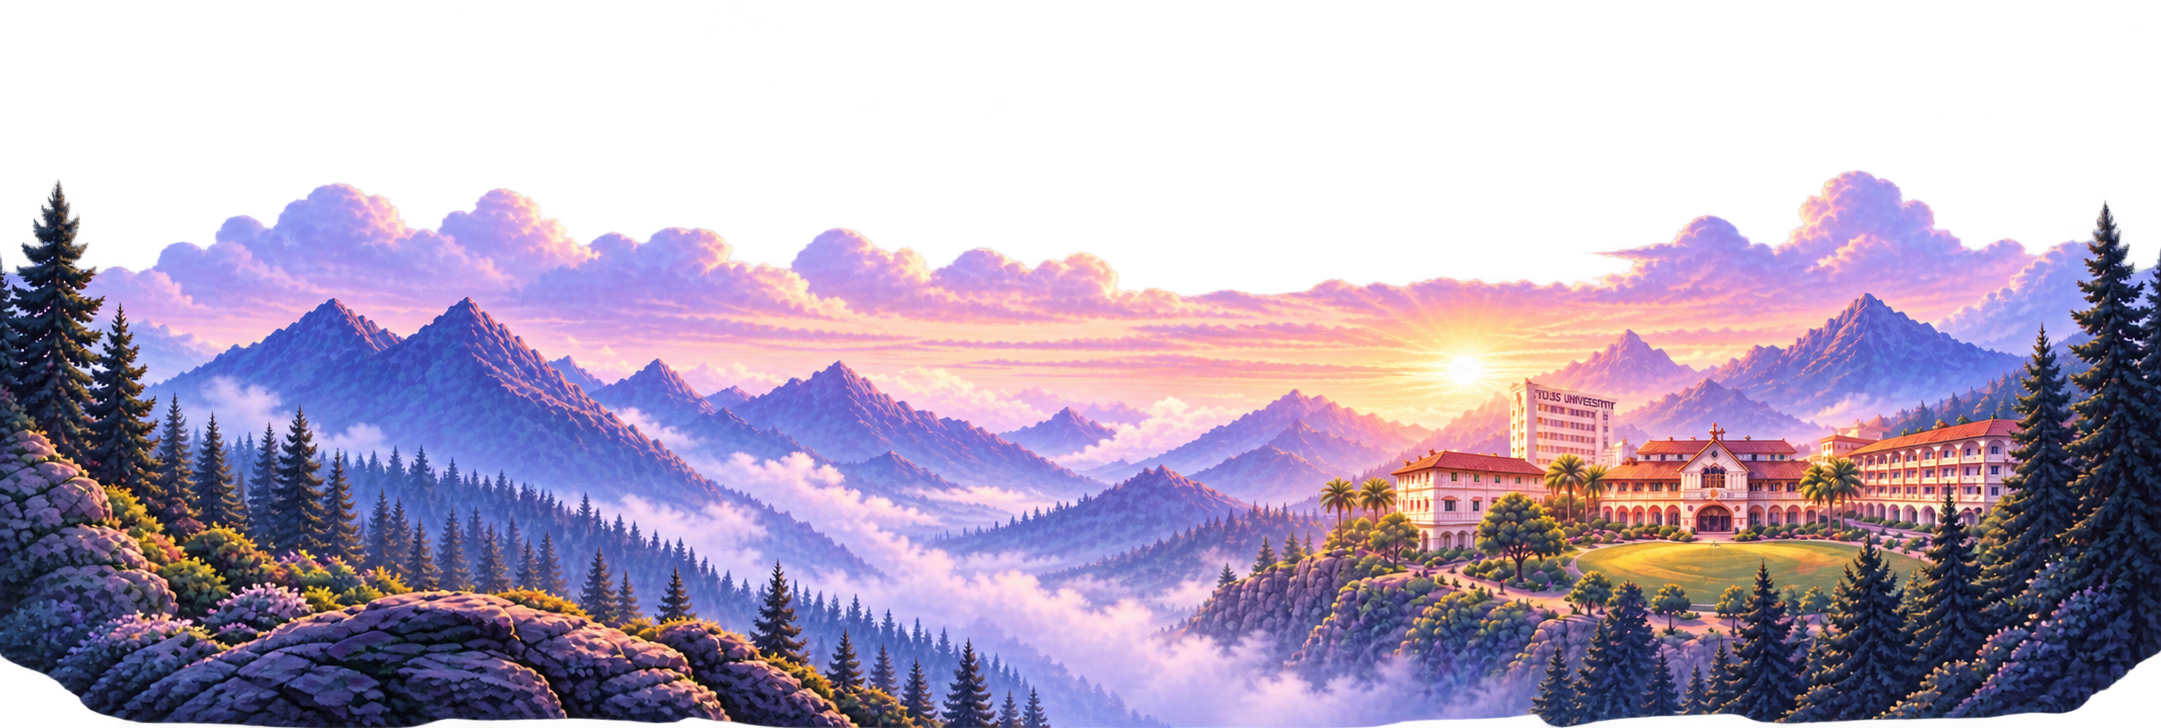
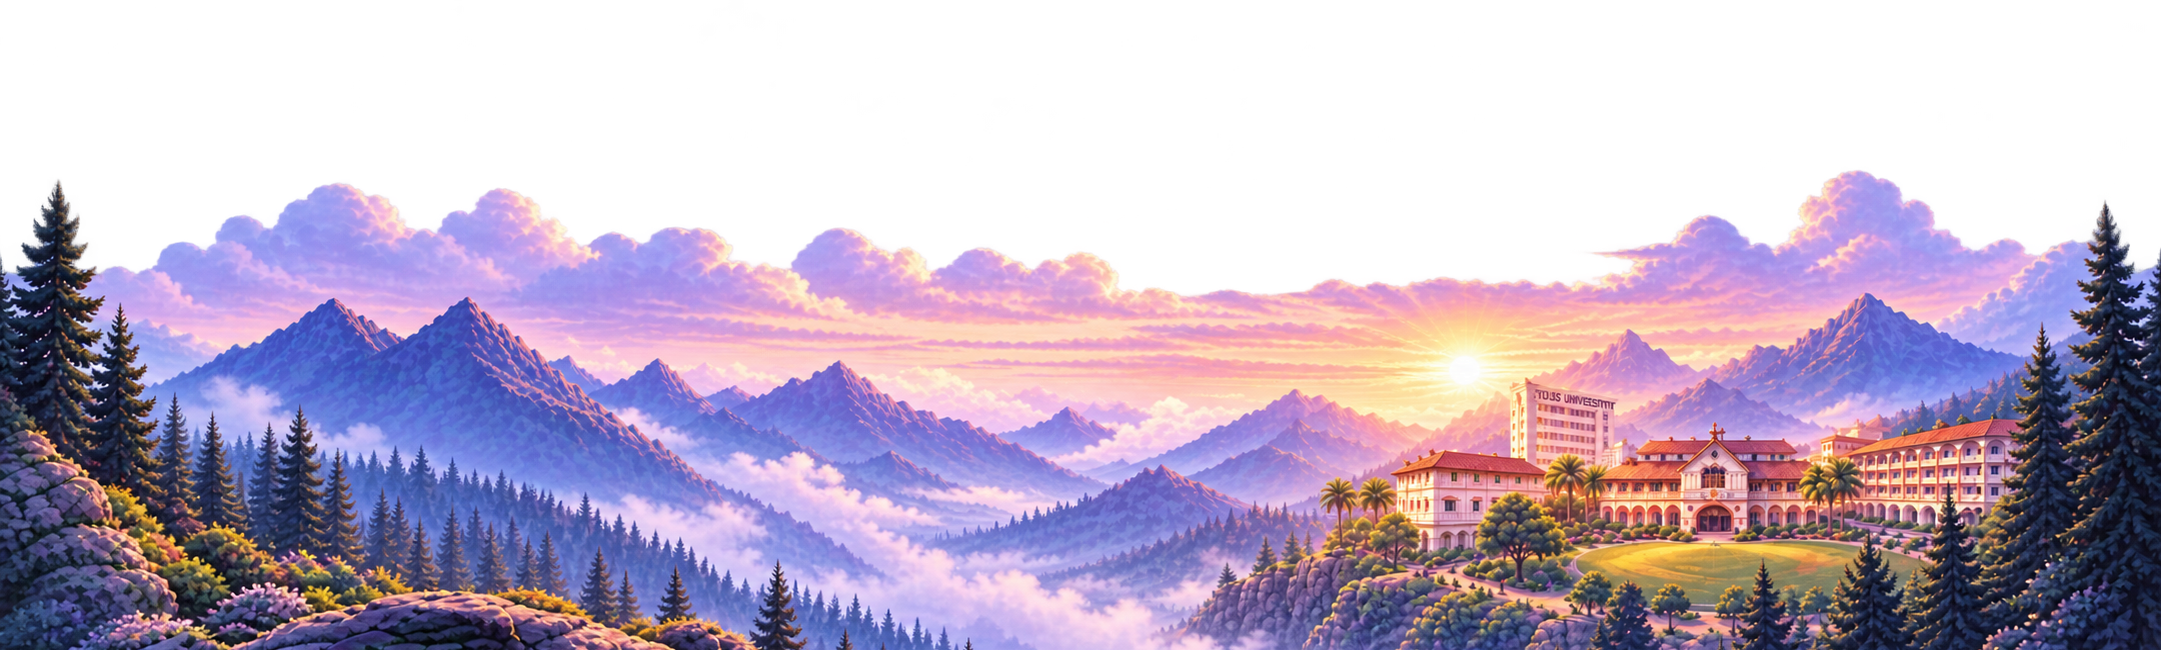
fix(cta): eliminate dark vignette letterboxing and bottom jagged artifacts in campus panorama

diff --git a/components/Sections.tsx b/components/Sections.tsx
@@ -524,12 +524,12 @@ export function Faqs() {
 
 export function FinalCta() {
   return (
-    <section id="final-cta" className="relative isolate overflow-hidden bg-gradient-to-b from-[#FAF8FF] via-violet-100/50 to-[#0a081b] min-h-[520px] sm:min-h-[550px] md:min-h-[580px]">
+    <section id="final-cta" className="relative isolate overflow-hidden bg-gradient-to-b from-[#FAF8FF] via-violet-100/50 to-violet-50/30 min-h-[520px] sm:min-h-[550px] md:min-h-[580px]">
       <SparkleCluster className="left-6 top-10 -scale-x-100 lg:left-20" />
-      {/* Campus scene: desktop is full panorama uncropped; mobile uses right-side part */}
-      <div id="campus-scene" className="pointer-events-none absolute inset-x-0 bottom-0 -z-10 w-full [mask-image:linear-gradient(to_bottom,transparent_0%,black_18%)]">
-        {/* Desktop view (md: and up) - exactly unchanged as requested */}
-        <div className="relative hidden w-full md:block aspect-[2170/525]">
+      {/* Campus scene: full-width panorama with seamless gradient transition */}
+      <div id="campus-scene" className="pointer-events-none absolute inset-x-0 bottom-0 -z-10 w-full overflow-hidden [mask-image:linear-gradient(to_bottom,transparent_0%,black_18%)]">
+        {/* Desktop view (md: and up) - full edge-to-edge landscape */}
+        <div className="relative hidden w-full md:block aspect-[2161/650] min-h-[380px]">
           <Image
             src="/buildverse/campus-scene.png"
             alt="Campus panorama"
@@ -537,11 +537,11 @@ export function FinalCta() {
             sizes="100vw"
             quality={100}
             priority
-            className="w-full h-full object-contain object-bottom"
+            className="w-full h-full object-cover object-bottom"
           />
         </div>
 
-        {/* Mobile view (< md) - right-side part of campus scene with generous framing */}
+        {/* Mobile view (< md) - focused right-side part of campus scene */}
         <div className="relative block h-72 sm:h-80 w-full md:hidden">
           <Image
             src="/buildverse/campus-scene.png"
